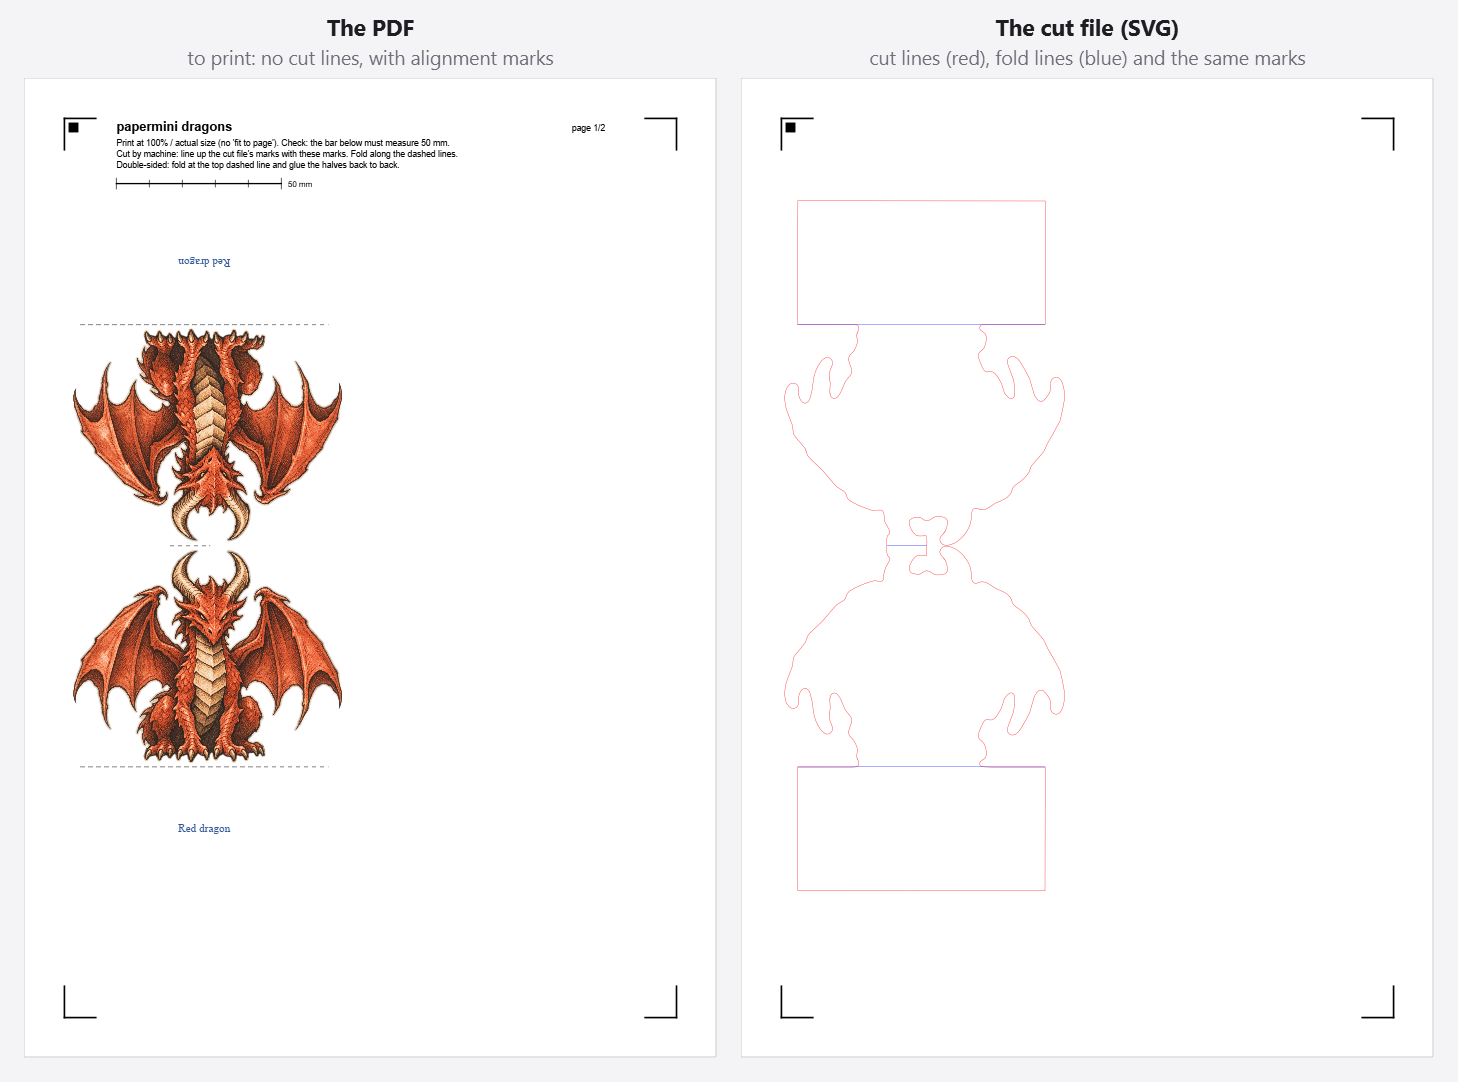
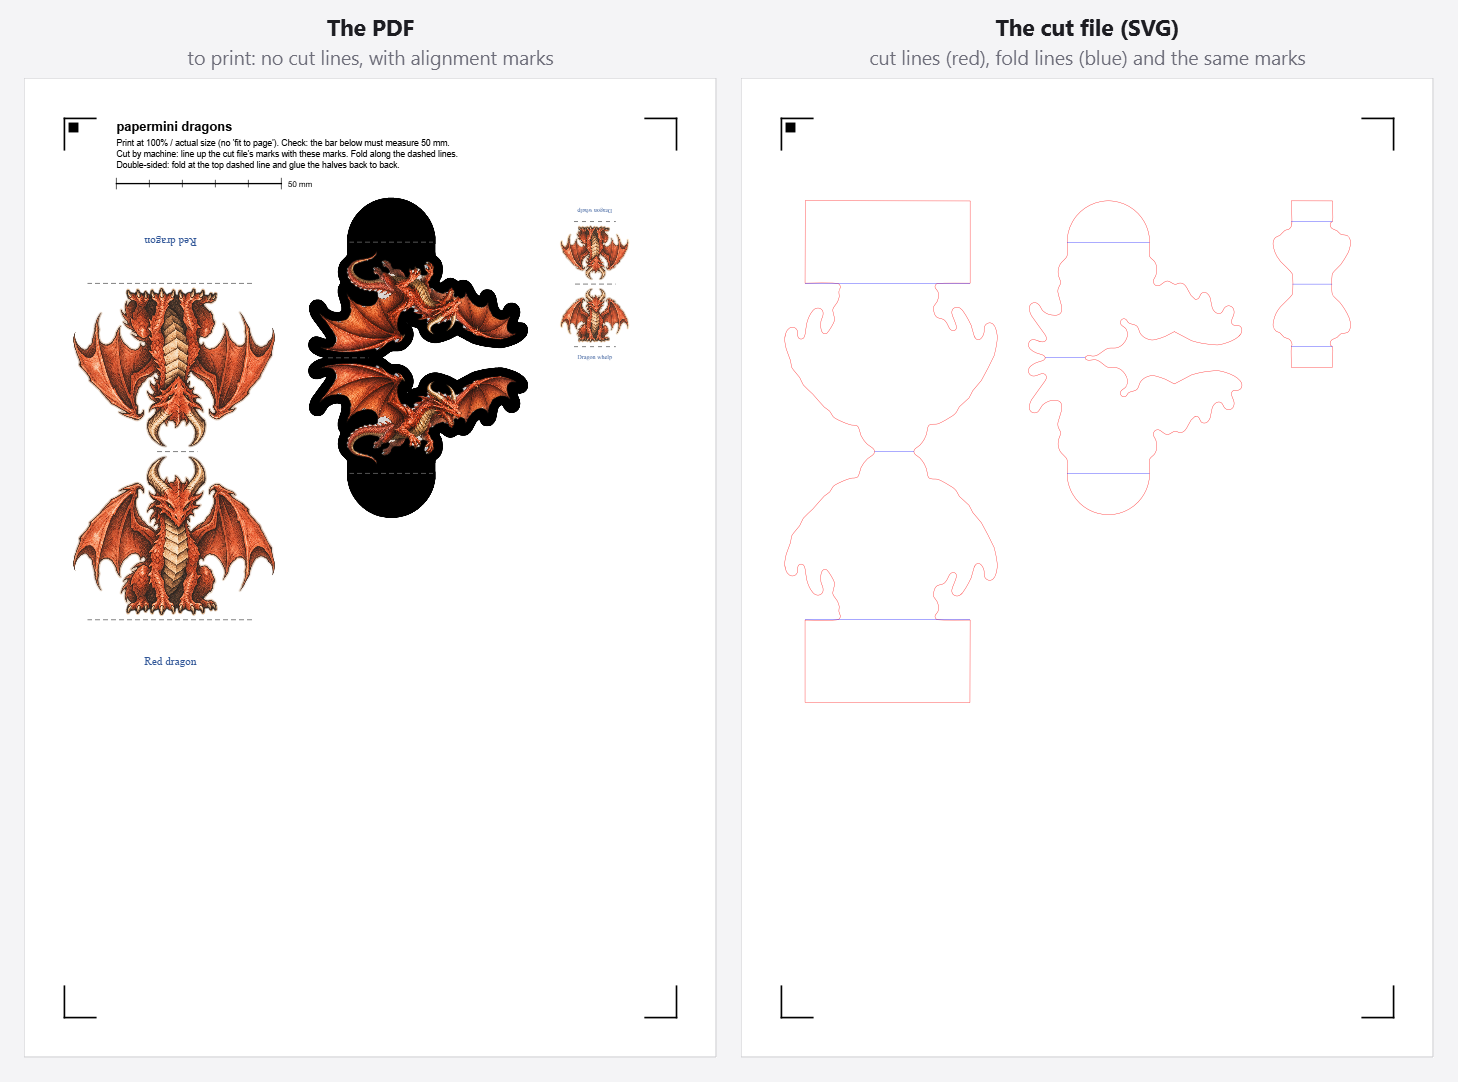
docs(screenshots): fit the machine sheet picture on one page
With the creature sizes the dragons project no longer fits on one
sheet. The machine sheet picture now builds each dragon one creature
size smaller, so all three minis show on one page again, as before.

diff --git a/scripts/screenshots.py b/scripts/screenshots.py
@@ -285,11 +285,21 @@ def main() -> None:
         from papermini.settings import load_project
         from papermini.sheet import cut_file_svg, pack
 
+        from papermini import sizes
+
         proj = load_project(args.project)
         sh = replace(proj.sheet, cut="machine")
-        lay = pack([(build_mini(f.image, f.settings, bleed_mm=sh.figure_bleed,
+
+        def smaller(s):  # one creature size down, so all three dragons fit on one page
+            if s.size not in sizes.SIZES:
+                return s
+            down = sizes.SIZES[max(sizes.SIZES.index(s.size) - 1, 0)]
+            return sizes.apply(s, down, proj.sizes)
+
+        lay = pack([(build_mini(f.image, smaller(f.settings), bleed_mm=sh.figure_bleed,
                                 log=lambda *_: None), 1) for f in proj.figures],
                    sh.paper, sh.margin_mm, sh.gap_mm, cut=sh.cut, marks=sh.marks)
+        assert lay.pages == 1, "the machine sheet picture should fit on one page"
         k = 2.2 * ratio  # device pixels per mm
         pw, ph = lay.paper
 
